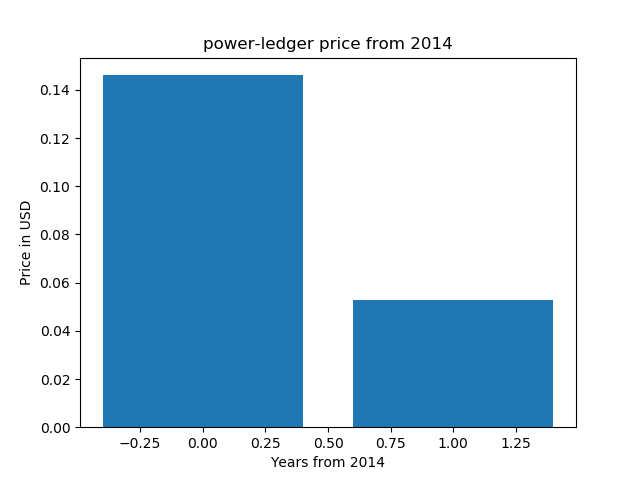
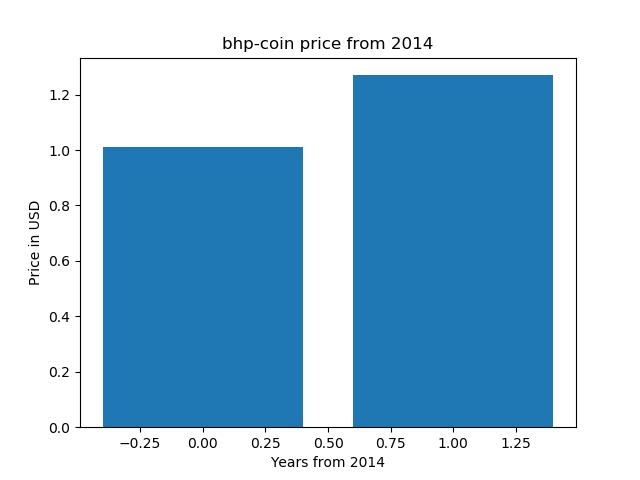
first commit

diff --git a/example.py b/example.py
@@ -10,7 +10,7 @@ from time import gmtime, strftime
 import matplotlib.pyplot as plt
 
 enddate = strftime("%Y%m%d", gmtime())
-r  = requests.get("https://coinmarketcap.com/currencies/power-ledger/historical-data/?start=20140101&end={0}".format(enddate))
+r  = requests.get("https://coinmarketcap.com/currencies/bhp-coin/historical-data/?start=20140101&end={0}".format(enddate))
 data = r.text
 
 soup = BeautifulSoup(data, "html.parser")
@@ -44,7 +44,7 @@ print(x)
 
 x = list(range(0, len(prices)))
 
-plt.title('power-ledger price from 2014')
+plt.title('bhp-coin price from 2014')
 plt.ylabel('Price in USD')
 plt.xlabel('Years from 2014')
 plt.bar(x, prices)

diff --git a/README.md b/README.md
@@ -1,6 +1,6 @@
-# power-ledger price chart 
+# bhp-coin price chart 
 
-power-ledger price chart (matplotlib, python)
+bhp-coin price chart (matplotlib, python)
 
 https://pythonprogramminglanguage.com
 
